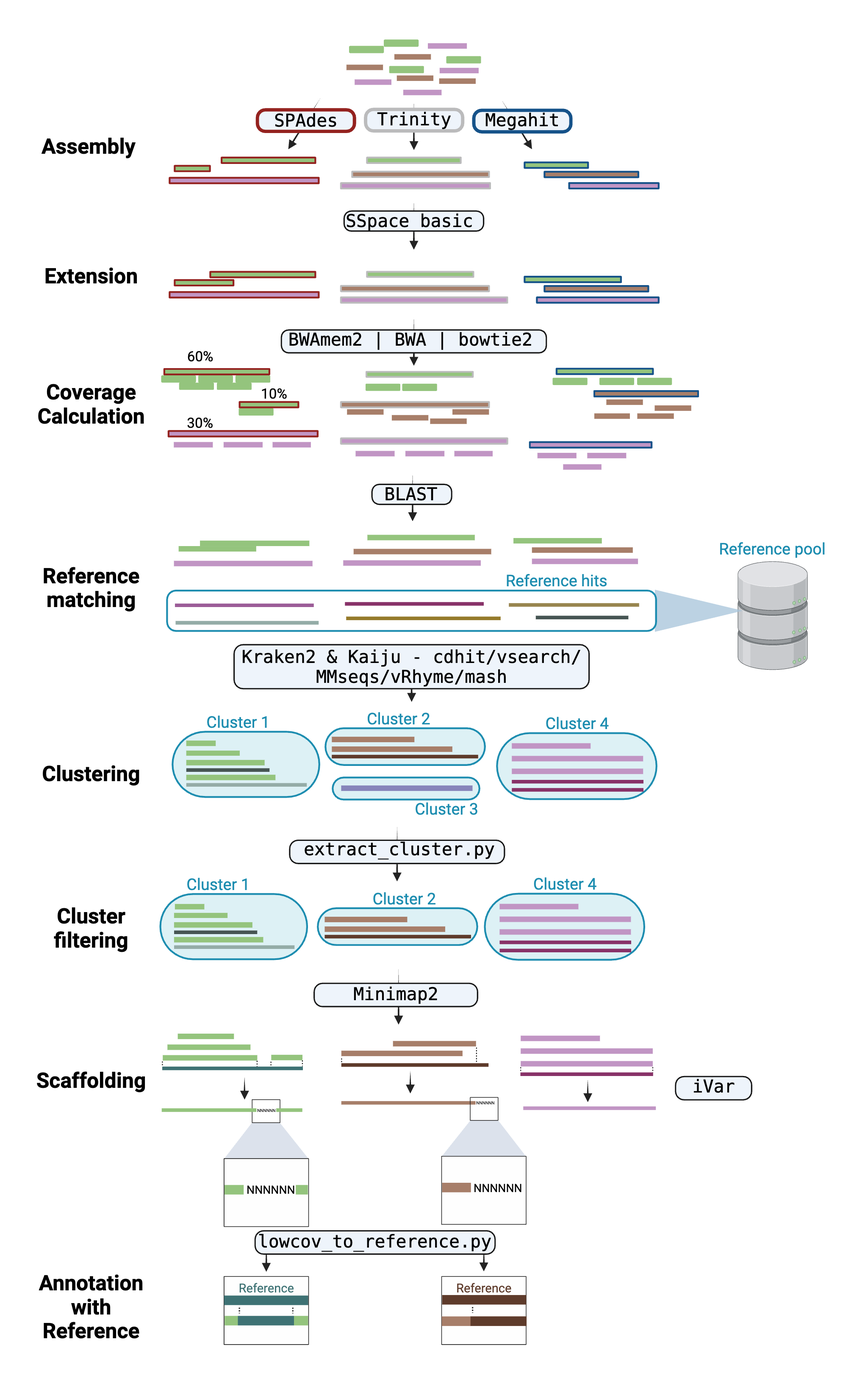
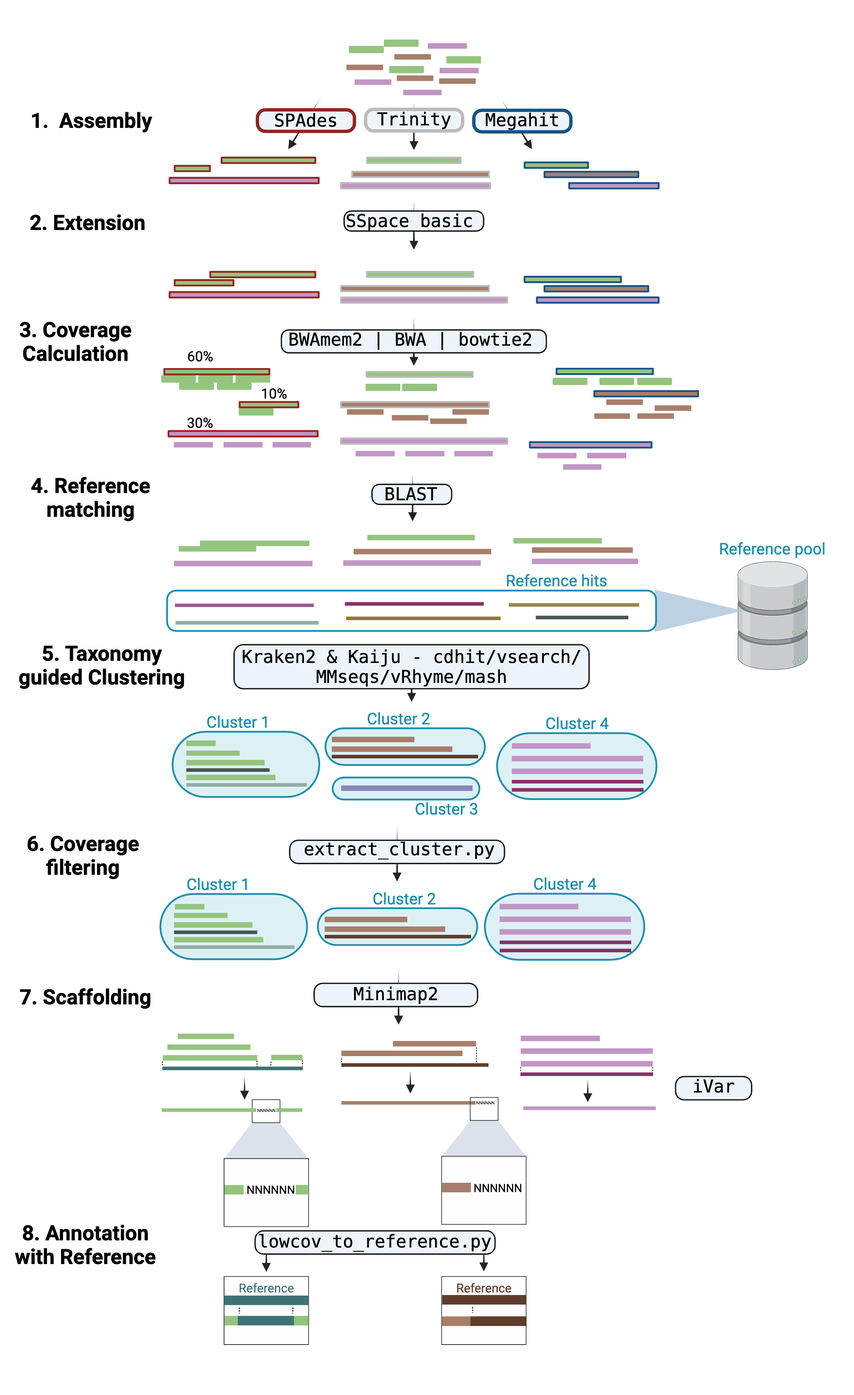
add numbers on assembly & polishing workflow

diff --git a/bin/custom_multiqc.py b/bin/custom_multiqc.py
@@ -121,14 +121,6 @@ def parse_args(argv=None):
         help="Checkv summary files for each sample",
         type=Path,
     )
-    parser.add_argument(
-        "--filter_level",
-        metavar="FILTER LEVEL",
-        choices=["normal", "strict", "none"],
-        default="normal",
-        type=str,
-        help="Specify how strict the filtering should be, default is normal.",
-    )
 
     parser.add_argument(
         "--clusters_files",

diff --git a/docs/parameters.md b/docs/parameters.md
@@ -8,7 +8,7 @@ Define where the pipeline should find input data and save output data.
 
 | Parameter | Description | Default |
 |-----------|-----------|-----------|
-| `input` | Path to comma-separated file containing information about the samples in the experiment. <details><summary>Help</summary><small>You will need to create a design file with information about the samples in your experiment before running the pipeline. Use this parameter to specify its location. It has to be a comma-separated file with 3 columns, and a header row. See [usage docs](https://nf-co.re/viralgenie/usage#samplesheet-input).</small></details>|  |
+| `input` | Path to comma-separated file containing information about the samples in the experiment. <details><summary>Help</summary><small>You will need to create a design file with information about the samples in your experiment before running the pipeline. Use this parameter to specify its location. It has to be a comma-separated file with 3 columns, and a header row. See [usage docs](https://joon-klaps.github.io/viralgenie/latest/usage/#input).</small></details>|  |
 | `outdir` | The output directory where the results will be saved. You have to use absolute paths to storage on Cloud infrastructure. |  |
 | `metadata` | Sample metadata that is included in the multiqc report |  |
 | `email` | Email address for completion summary. <details><summary>Help</summary><small>Set this parameter to your e-mail address to get a summary e-mail with details of the run sent to you when the workflow exits. If set in your user config file (`~/.nextflow/config`) then you don't need to specify this on the command line for every run.</small></details>|  |
@@ -25,7 +25,11 @@ Options related to the trimming, low complexity and host removal steps of the re
 | `save_intermediate_reads` | Save reads after every preprocessing step |  |
 | `with_umi` | With or without umi detection |  |
 | `skip_umi_extract` | With or without umi extraction | True |
-| `umi_discard_read` | Discard R1 / R2 if required | 0 |
+| `umi_deduplicate` | Specify at what level UMI deduplication should occur. | read |
+| `humid_mismatches` | Specify the maximum number of mismatches between reads for them to still be considered neighbors. | 1 |
+| `humid_strategy` | Specify the strategy for umi-deduplication directional vs cluster | directional |
+| `umitools_dedup_strategy` | Specify the strategy or method for umi-tools deduplication on mapping level | cluster |
+| `umi_discard_read` | Discard R1 / R2 if required 0, meaning not to discard | 0 |
 | `trim_tool` | The used trimming tool | fastp |
 | `skip_trimming` | Skip read trimming |  |
 | `fastp_deduplicate` | Use Fastp's deduplicate option |  |
@@ -35,28 +39,27 @@ Options related to the trimming, low complexity and host removal steps of the re
 | `save_merged` | Specify true to save all merged reads to the a file ending in `*.merged.fastq.gz` |  |
 | `min_trimmed_reads` | Inputs with fewer than this reads will be filtered out of the "reads" output channel | 1 |
 | `skip_complexity_filtering` | Skip filtering of low complexity regions in reads <details><summary>Help</summary><small>Low-complexity sequences are defined as having commonly found stretches of nucleotides with limited information content (e.g. the dinucleotide repeat CACACACACA). Such sequences can produce a large number of high-scoring but biologically insignificant results in database searches</small></details>| True |
+| `decomplexifier` | Specify the decomplexifier to use, bbduk or prinseq | prinseq |
 | `contaminants` | Reference files containing adapter and/or contaminant sequences for sequence kmer matching (used by bbduk) |  |
 | `skip_hostremoval` | Skip the removal of host read sequences |  |
 | `host_k2_db` | Kraken2 database used to remove host and conamination | s3://ngi-igenomes/test-data/viralrecon/kraken2_human.tar.gz |
 | `host_k2_library` | Kraken2 library(s) required to remove host and contamination <details><summary>Help</summary><small>Only used when no host kraken2 database is specified.</small></details>| human |
-| `skip_host_fastqc` | Skip the fastqc step after host & contaminants were removed | True |
+| `skip_host_fastqc` | Skip the fastqc step after host & contaminants were removed |  |
 
-## Read classification
+## Metagenomic diveristy
 
 Parameters used to determine the metagenomic diversity of the sample
 
 | Parameter | Description | Default |
 |-----------|-----------|-----------|
 | `skip_read_classification` | Skip determining the metagenomic diversity of the sample |  |
+| `read_classifiers` | Specify the taxonomic read classifiers, choices are 'kaiju,kraken2' | kraken2,kaiju |
 | `save_databases` | Save the used databases |  |
-| `skip_kraken2` | Skip the use of Kraken2 to determine metagenomic diversity |  |
 | `kraken2_db` | Location of the Kraken2 database | https://genome-idx.s3.amazonaws.com/kraken/k2_viral_20230314.tar.gz |
 | `kraken2_save_reads` | Save classified and unclassified reads  as fastq files |  |
 | `kraken2_save_readclassification` | Save summary overview of read classifications in a txt file |  |
 | `kraken2_save_minimizers` | Save kraken2's used minimizers |  |
-| `skip_bracken` | Skip recalculation of taxa abundance using bracken | True |
 | `bracken_db` | Location of bracken database | https://genome-idx.s3.amazonaws.com/kraken/k2_viral_20230314.tar.gz |
-| `skip_kaiju` | kip the use of Kaiju to determine metagenomic diversity |  |
 | `kaiju_db` | Location of Kaiju database | https://kaiju-idx.s3.eu-central-1.amazonaws.com/2023/kaiju_db_rvdb_2023-05-26.tgz |
 | `kaiju_taxon_rank` | Level of taxa rank that needs to be determined | species |
 
@@ -67,11 +70,16 @@ Parameters relating to the used assembly methods
 | Parameter | Description | Default |
 |-----------|-----------|-----------|
 | `skip_assembly` | Skip de novo assembly of reads |  |
-| `assemblers` | The specified tools for denovo assembly, multiple options are possible | spades,trinity,megahit |
+| `assemblers` | The specified tools for denovo assembly, multiple options are possible | spades,megahit |
 | `spades_mode` | specific SPAdes mode to run | rnaviral |
 | `spades_hmm` | File or directory with amino acid HMMs for Spades HMM-guided mode. |  |
 | `spades_yml` | Path to yml file containing read information. <details><summary>Help</summary><small>The raw FASTQ files listed in this YAML file MUST be supplied to the respective illumina/pacbio/nanopore input channel(s) _in addition_ to this YML. File entries in this yml must contain only the file name and no paths.</small></details>|  |
 | `assembler_patterns` | Regex pattern to identify contigs that have been made by the assemblers |  |
+| `skip_contig_prinseq` | Skip the filtering of low complexity contigs with prinseq |  |
+| `skip_sspace_basic` | Skip the contig extension with sspace_basic |  |
+| `read_distance` | Specify the mean distance between the paired reads | 350 |
+| `read_distance_sd` | Specify the a deviation of the mean distance that is allowed. <details><summary>Help</summary><small>For instance, a mean of 200 and a sd of 0.75. This means that any pair having a distance between 150 and 250 is allowed.</small></details>| 0.75 |
+| `read_orientation` | Specify the read orientation. | FR |
 
 ## Polishing
 
@@ -84,14 +92,23 @@ Parameters relating to the refinement of denovo contigs
 | `reference_pool` | Set of fasta sequences used as potential references for the contigs | https://rvdb.dbi.udel.edu/download/C-RVDBvCurrent.fasta.gz |
 | `skip_precluster` | Skip the preclustering of assemblies to facilitate downstream processing of assemblies |  |
 | `keep_unclassified` | Keep the contigs that could not be classified with the taxonomic databases (`kaiju_db` & `kraken2_db`) <details><summary>Help</summary><small>Within the preclustering step, all contigs will get a taxonomic classification using the provided databases for the metagenomic tools. In some cases, the number of unclassified contigs, can be very large if the database is restrictive. This will result in large clusters in downstream processing that can take up a lot of resources despite not being a priority in some analyses. So set it to `True` if you want to keep unclassified contigs and set it to `False` if you don't want to keep them. </small></details>| True |
+| `precluster_classifiers` | Specify the metagenomic classifiers to use for contig taxonomy classification: 'kraken2,kaiju' | kraken2,kaiju |
 | `precluster_merge_strategy` | Taxon conflict resolution mode, must be 1 (Kaiju), 2 (Kraken),  lca, or lowest. <details><summary>Help</summary><small>The option -c determines the method of resolving conflicts in the taxonomic assignment for a read.<br>Possible values are '1', '2', 'lca', 'lowest':<br>  '1' -> the taxon id from Kaiju is used.<br>  '2' -> the taxon id from Kraken is used.<br>  'lca' -> the least common ancestor of the two taxon ids from both input files is used.<br>  'lowest' -> the lower rank of the two taxa is used if they are within the same lineage. Otherwise the LCA is used.</small></details>| lca |
-| `cluster_method` | Cluster algorithm used for contigs | mash |
+| `precluster_simplification_level` | Level of taxonomic simplification <details><summary>Help</summary><small>The taxonomic classification of the contigs can be simplified to a certain level. This can be done by specifying the taxonomic rank to which the classification should be simplified.</small></details>|  |
+| `precluster_exclude_taxa` | Hard constrain for taxa to exclude from the preclustering, if multiple given make sure to enclose with '"' and separate with a space. <details><summary>Help</summary><small>The taxonomic classification of the contigs can be filtered. This can be done by specifying a list of taxa that should be excluded from the results.</small></details>|  |
+| `precluster_exclude_children` | Taxon ids to exclude along with all their children from the preclustering, if multiple given make sure to enclose with '"' and separate with a space. <details><summary>Help</summary><small>The taxonomic classification of the contigs can be filtered. This can be done by specifying a list of taxa that should be excluded along with all their children from the results.</small></details>|  |
+| `precluster_exclude_parents` | Taxon ids to exclude along with all their parents from the preclustering, if multiple given make sure to enclose with '"' and separate with a space. <details><summary>Help</summary><small>The taxonomic classification of the contigs can be filtered. This can be done by specifying a list of taxa that should be excluded along with all their parents from the results.</small></details>|  |
+| `precluster_include_children` | Taxon ids to include along with all their children from the preclustering, if multiple given make sure to enclose with '"' and separate with a space. <details><summary>Help</summary><small>The taxonomic classification of the contigs can be filtered. This can be done by specifying a list of taxa that should be included along with all their children from the results.</small></details>|  |
+| `precluster_include_parents` | Taxon ids to include along with all their parents from the preclustering, if multiple given make sure to enclose with '"' and separate with a space. <details><summary>Help</summary><small>The taxonomic classification of the contigs can be filtered. This can be done by specifying a list of taxa that should be included along with all their parents from the results.</small></details>|  |
+| `cluster_method` | Cluster algorithm used for contigs | cdhitest |
+| `mmseqs_cluster_mode` | Specify the algorithm to partition the network graph from mmseqs <details><summary>Help</summary><small>The Greedy Set cover (0) algorithm is an approximation for the NP-complete optimization problem called set cover.<br>Connected component (1) uses transitive connection to cover more remote homologs.<br>Greedy incremental (2) works analogous to CD-HIT clustering algorithm.</small></details>| 0 |
 | `network_clustering` | (only with mash) Algorithm to partition the network. <details><summary>Help</summary><small>Mash creates a distance matrix that gets translated into a network of connectected nodes where the edges represent the similarity. This network is then split up using the specified method.<br><br> - [leiden](https://leidenalg.readthedocs.io/en/stable/intro.html) algorithm: a hierarchical clustering algorithm, that recursively merges communities into single nodes by greedily optimizing the modularity<br> - [connected_components] algorithm: a clustering algorithm that defines the largest possible communities where each node within a subset is reachable from every other node in the same subset via any edge .<br></small></details>| connected_components |
 | `skip_hybrid_consensus` | Skip creation of the hybrid consensus, instead keep the scaffold with ambiguous bases if the depth of scaffolds is not high enough. |  |
-| `identity_threshold` | Identity threshold value used in clustering algorithms | 0.6 |
+| `identity_threshold` | Identity threshold value used in clustering algorithms | 0.85 |
 | `min_contig_size` | Minimum allowed contig size <details><summary>Help</summary><small>Setting this to a low value will result in a large number of questionable contigs and an increase in computation time </small></details>| 500 |
+| `perc_reads_contig` | minimum cumulated sum of mapped read percentages of each member from a cluster group, set to 0 to disable <details><summary>Help</summary><small>Setting this variable will remove clusters that have a low cumulated sum of mapped read percentages. This can be used to remove clusters that have a low coverage and are likely to be false positives.</small></details>| 5 |
 | `max_contig_size` | Maximum allowed contig size | 10000000 |
-| `max_n_perc` |  | 50 |
+| `max_n_perc` | Define the maximum percentage of ambiguous bases in a contig | 50 |
 | `skip_singleton_filtering` | Skip the filtering of contigs that did not cluster together with other contigs <details><summary>Help</summary><small>Setting this to true will cause the pipeline not to remove contigs that don't have similar contigs. Filtering settings can be further specified with `min_contig_size` and `max_n_100kbp`.</small></details>|  |
 
 ## Iterative consensus refinement
@@ -104,7 +121,6 @@ Define parameters for iterations to update denovo consensus using  reference bas
 | `iterative_refinement_cycles` | number of iterations | 2 |
 | `intermediate_mapper` | mapping tool used during iterations | bwamem2 |
 | `intermediate_variant_caller` | variant caller used during iterations | ivar |
-| `consensus_caller` | consensus tool used for calling new consensus in final iteration | ivar |
 | `call_intermediate_variants` | call variants during the iterations <details><summary>Help</summary><small>Will always be done when iterative consensus caller is bcftools</small></details>|  |
 | `intermediate_consensus_caller` | consensus tool used for calling new consensus during iterations | bcftools |
 | `intermediate_mapping_stats` | calculate summary statistics during iterations | True |
@@ -119,8 +135,12 @@ Parameters relating to the analysis of variants associated to contigs and scaffo
 | `mapper` | Define which mapping tool needs to be used when mapping reads to reference | bwamem2 |
 | `mapping_constrains` | Sequence to use as a mapping reference instead of the de novo contigs or scaffolds |  |
 | `deduplicate` | deduplicate the reads <details><summary>Help</summary><small>If used with umi's, `umi tools` will be used to group and call consensus of each indiual read group. If not used with umi's use `PicardsMarkDuplicates`. </small></details>| True |
-| `variant_caller` |  | ivar |
-| `min_mapped_reads` |  | 200 |
+| `variant_caller` | Define the variant caller to use: 'ivar' or 'bcftools' | ivar |
+| `consensus_caller` | consensus tool used for calling new consensus in final iteration | ivar |
+| `umi_separator` | UMI seperator in fastq header. <details><summary>Help</summary><small>If you have used an alternative method which does not separate the read id and UMI with a “_”, such as bcl2fastq which uses “:”, you can specify the separator with the option --umi_separator=<sep>, replacing <sep> with e.g “:”.</small></details>| : |
+| `mash_sketch_size` | Specify the sketch size, the number of (non-redundant) min-hashes that are kept. <details><summary>Help</summary><small>Larger sketches will better represent the sequence, but at the cost of larger sketch files and longer comparison times.</small></details>| 4000 |
+| `mash_sketch_kmer_size` | Specify the kmer size for mash to create their hashes <details><summary>Help</summary><small>larger k-mers will provide more specificity, while smaller k-mers will provide more sensitivity. Larger genomes will also require larger k-mers to avoid k-mers that are shared by chance</small></details>| 15 |
+| `min_mapped_reads` | Define the minimum number of mapped reads in order to continue the variant and consensus calling | 200 |
 | `mapping_stats` | calculate summary statistics in final iteration | True |
 | `ivar_header` |  |  |
 
@@ -134,11 +154,11 @@ Apply different quality control techniques on the generated consensus genomes
 | `skip_checkv` | Skip the use of checkv for quality check |  |
 | `checkv_db` | Reference database used by checkv for consensus quality control <details><summary>Help</summary><small>If not given, the most recent one is downloaded.</small></details>|  |
 | `skip_annotation` | Skip the annotation of the consensus constructs |  |
-| `annotation_db` | Database used for annotation of the cosensus constructs <details><summary>Help</summary><small>The metada fields are stored in the fasta comment as `key1:"value1"|key2:"value2"|...` see docs/databases.md for more information.</small></details>| https://viralzone.expasy.org/resources/Virosaurus/2020%5F4/virosaurus90%5Fvertebrate-20200330.fas.gz |
+| `annotation_db` | Database used for annotation of the cosensus constructs <details><summary>Help</summary><small>The metada fields are stored in the fasta comment as `key1:"value1"|key2:"value2"|...` see docs/databases.md for more information.</small></details>| ftp://ftp.expasy.org/databases/viralzone/2020_4/virosaurus90_vertebrate-20200330.fas.gz |
 | `skip_quast` | Skip the use of QUAST for quality check |  |
 | `skip_blast_qc` | Skip the blast search of contigs to the provided reference DB |  |
 | `skip_alignment_qc` | Skip creating an alignment of each the collapsed clusters and each iterative step |  |
-| `mmseqs_searchtype` | Specify the search algorithm to use for mmseqs. 0: auto 1: amino acid, 2: translated, 3: nucleotide, 4: translated nucleotide alignment <details><summary>Help</summary><small>Only search-type 3 supports both forward and reverse search<br>1 - BLASTP;<br>2 - TBLASTN;<br>3 - BLASTN;<br>4 - TBLASTX</small></details>| 3 |
+| `mmseqs_searchtype` | Specify the search algorithm to use for mmseqs. 0: auto 1: amino acid, 2: translated, 3: nucleotide, 4: translated nucleotide alignment <details><summary>Help</summary><small>Only search-type 3 supports both forward and reverse search<br>1 - BLASTP;<br>2 - TBLASTN;<br>3 - BLASTN;<br>4 - TBLASTX</small></details>| 4 |
 
 ## Institutional config options
 
@@ -153,23 +173,12 @@ Parameters used to describe centralised config profiles. These should not be edi
 | `config_profile_contact` | Institutional config contact information. |  |
 | `config_profile_url` | Institutional config URL link. |  |
 
-## Max job request options
-
-Set the top limit for requested resources for any single job.
-
-| Parameter | Description | Default |
-|-----------|-----------|-----------|
-| `max_cpus` | Maximum number of CPUs that can be requested for any single job. <details><summary>Help</summary><small>Use to set an upper-limit for the CPU requirement for each process. Should be an integer e.g. `--max_cpus 1`</small></details>| 16 |
-| `max_memory` | Maximum amount of memory that can be requested for any single job. <details><summary>Help</summary><small>Use to set an upper-limit for the memory requirement for each process. Should be a string in the format integer-unit e.g. `--max_memory '8.GB'`</small></details>| 128.GB |
-| `max_time` | Maximum amount of time that can be requested for any single job. <details><summary>Help</summary><small>Use to set an upper-limit for the time requirement for each process. Should be a string in the format integer-unit e.g. `--max_time '2.h'`</small></details>| 240.h |
-
 ## Generic options
 
 Less common options for the pipeline, typically set in a config file.
 
 | Parameter | Description | Default |
 |-----------|-----------|-----------|
-| `help` | Display help text. |  |
 | `version` | Display version and exit. |  |
 | `publish_dir_mode` | Method used to save pipeline results to output directory. <details><summary>Help</summary><small>The Nextflow `publishDir` option specifies which intermediate files should be saved to the output directory. This option tells the pipeline what method should be used to move these files. See [Nextflow docs](https://www.nextflow.io/docs/latest/process.html#publishdir) for details.</small></details>| copy |
 | `email_on_fail` | Email address for completion summary, only when pipeline fails. <details><summary>Help</summary><small>An email address to send a summary email to when the pipeline is completed - ONLY sent if the pipeline does not exit successfully.</small></details>|  |
@@ -179,14 +188,11 @@ Less common options for the pipeline, typically set in a config file.
 | `hook_url` | Incoming hook URL for messaging service <details><summary>Help</summary><small>Incoming hook URL for messaging service. Currently, MS Teams and Slack are supported.</small></details>|  |
 | `multiqc_title` | MultiQC report title. Printed as page header, used for filename if not otherwise specified. |  |
 | `multiqc_config` | Custom config file to supply to MultiQC. |  |
-| `multiqc_logo` | Custom logo file to supply to MultiQC. File name must also be set in the MultiQC config file |  |
+| `multiqc_logo` | Custom logo file to supply to MultiQC. File name must also be set in the MultiQC config file | https://github.com/Joon-Klaps/viralgenie/blob/dev/docs/images/ViralGenie-nf-core-theme.png?raw=true |
 | `multiqc_methods_description` | Custom MultiQC yaml file containing HTML including a methods description. |  |
 | `clean_output_on_error` | Delete the output directory if the pipeline fails |  |
 | `custom_table_headers` | Custom yaml file contian g the table column names selection and new names. | ${projectDir}/assets/custom_table_headers.yml |
 | `validate_params` | Boolean whether to validate parameters against the schema at runtime | True |
-| `validationShowHiddenParams` | Show all params when using `--help` <details><summary>Help</summary><small>By default, parameters set as _hidden_ in the schema are not shown on the command line when a user runs with `--help`. Specifying this option will tell the pipeline to show all parameters.</small></details>|  |
-| `validationFailUnrecognisedParams` | Validation of parameters fails when an unrecognised parameter is found. <details><summary>Help</summary><small>By default, when an unrecognised parameter is found, it returns a warinig.</small></details>|  |
-| `validationSchemaIgnoreParams` |  | global_prefix |
-| `validationLenientMode` | Validation of parameters in lenient more. <details><summary>Help</summary><small>Allows string values that are parseable as numbers or booleans. For further information see [JSONSchema docs](https://github.com/everit-org/json-schema#lenient-mode).</small></details>|  |
 | `prefix` | Prefix of all output files followed by [date]_[pipelineversion]_[runName] <details><summary>Help</summary><small>Use '--global_prefix' to not have metadata embedded.</small></details>|  |
 | `global_prefix` | Global prefix set if you don't want metadata embedded in the prefix |  |
+| `pipelines_testdata_base_path` | Base URL or local path to location of pipeline test dataset files | https://raw.githubusercontent.com/nf-core/test-datasets/ |

diff --git a/docs/workflow/assembly_polishing.md b/docs/workflow/assembly_polishing.md
@@ -3,11 +3,15 @@
 
 Viralgenie offers an elaborate workflow for the assembly and polishing of viral genomes:
 
-- [Assembly](#de-novo-assembly): combining the results of multiple assemblers.
-- [Reference Matching](#reference-matching): comparing the newly assembled contigs to a reference sequence pool.
-- [Clustering](#clustering): clustering the contigs based on taxonomy and similarity.
-- [Scaffolding](#scaffolding): scaffolding the contigs to the centroid of each bin.
-- [Annotation with Reference](#annotation-with-reference): annotating regions with 0-depth coverage with the reference sequence.
+1. [Assembly](#1-de-novo-assembly): combining the results of multiple assemblers.
+1. [Extension](#2-extension): extending contigs using paired-end reads.
+1. [Coverage calculation](#3-coverage-calculation): mapping reads back to the contigs to determine coverage.
+1. [Reference Matching](#4-reference-matching): comparing contigs to a reference sequence pool.
+1. [Taxonomy guided Clustering](#5-taxonomy-guided-clustering): clustering contigs based on taxonomy and nucleotide similarity.
+    - [Pre-clustering](#51-pre-clustering-using-taxonomy): separating contigs based on identified taxonomy-id.
+    - [Actual clustering](#52-actual-clustering-on-nucloetide-similarity): clustering contigs based on nucleotide similarity.
+1. [Scaffolding](#scaffolding): scaffolding the contigs to the centroid of each bin.
+1. [Annotation with Reference](#annotation-with-reference): annotating regions with 0-depth coverage with the reference sequence.
 
 ![assembly_polishing](../images/assembly_polishing.png)
 
@@ -17,28 +21,48 @@ Viralgenie offers an elaborate workflow for the assembly and polishing of viral 
 
 The consensus genome of all clusters are then send to the [variant analysis & iterative refinement](variant_and_refinement.md) step.
 
-## De-novo Assembly
+## 1. De-novo Assembly
+
 Three assemblers are used, [SPAdes](http://cab.spbu.ru/software/spades/), [Megahit](https://github.com/voutcn/megahit), and [Trinity](https://github.com/trinityrnaseq/trinityrnaseq). The resulting contigs of all specified assemblers, are combined and processed further together.
 > Modify the spades mode with `--spades_mode [default: rnaviral]` and supply specific params with `--spades_yml` or a hmm model with `--spades_hmm`.
 
 > Specify the assemblers to use with the `--assemblers` parameter where the assemblers are separated with a ','. The default is `spades,megahit,trinity`.
 
-Contigs can be extended using [SSPACE Basic](https://github.com/nsoranzo/sspace_basic) with the `--skip_sspace_basic false` parameter. SSPACE is a tool for scaffolding contigs using paired-end reads. It is modified from SSAKE assembler and has the feature of extending contigs using reads that are unmappable in the contig assembly step.
-
 Low complexity contigs can be filtered out using prinseq++ with the `--skip_contig_prinseq false` parameter. Complexity filtering is primarily a run-time optimisation step. Low-complexity sequences are defined as having commonly found stretches of nucleotides with limited information content (e.g. the dinucleotide repeat CACACACACA). Such sequences can produce a large number of high-scoring but biologically insignificant results in database searches. Removing these reads therefore saves computational time and resources.
 
-## Reference Matching
+## 2. Extension
+
+Contigs can be extended using [SSPACE Basic](https://github.com/nsoranzo/sspace_basic) with the `--skip_sspace_basic false` parameter. SSPACE is a tool for scaffolding contigs using paired-end reads. It is modified from SSAKE assembler and has the feature of extending contigs using reads that are unmappable in the contig assembly step. To maximize its efficiency, consider specifying the arguments `--read_distance`, `--read_distance_sd`, and `--read_orientation`.  For more information on these arguments, see the [parameters assembly section](../parameters.md#assembly).
+
+> The extension of contigs is ran by default, to skip this step, use `--skip_sspace_basic`.
+
+## 3. Coverage calculation
+
+Processed reads are mapped back against the contigs to determine the number of reads mapping towards each contig. This is done with [`BowTie2`](http://bowtie-bio.sourceforge.net/bowtie2/),[`BWAmem2`](https://github.com/bwa-mem2/bwa-mem2) or [`BWA`](https://github.com/lh3/bwa). This step is used to remove contig clusters that have little to no coverage downstream.
+
+> Specify the mapper to use with the `--mapper` parameter. The default is [`BWAmem2`](https://github.com/bwa-mem2/bwa-mem2). To skip contig filtering specify `--perc_reads_contig 0`.
+
+## 4. Reference Matching
+
 The newly assembled contigs are compared to a reference sequence pool (--reference_pool) using a [BLASTn search](https://www.ncbi.nlm.nih.gov/books/NBK153387/). This process not only helps annotate the contigs but also assists in linking together sets of contigs that are distant within a single genome. Essentially, it aids in identifying contigs belonging to the same genomic segment and choosing the right reference for scaffolding purposes.
 
 The top 5 hits for each contig are combined with the denovo contigs and send to the clustering step.
 
 > The reference pool can be specified with the `--reference_pool` parameter. The default is the latest clustered [Reference Viral DataBase (RVDB)](https://rvdb.dbi.udel.edu/).
 
-## Clustering
+## 5. Taxonomy guided Clustering
 
-The clustering workflow of contigs consists out of 2 steps, the [pre-clustering](#pre-clustering) and [actual clustering](#actual-clustering). Here contigs are first separated based on identified taxonomy-id ([Kraken2](https://ccb.jhu.edu/software/kraken2/), [Kaiju](https://kaiju.binf.ku.dk/)) and are subsequently clustered further to identify genome segments.
+The clustering workflow of contigs consists out of 2 steps, the [pre-clustering using taxonomy](#51-pre-clustering-using-taxonomy) and
+[actual clustering on nucleotide similarity](#52-actual-clustering-on-nucloetide-similarity). The taxonomy guided clustering is used to separate contigs based on taxonomy and nucleotide similarity.
 
-### Pre-clustering
+```mermaid
+graph LR;
+    A[Contigs] --> B["`**Pre-clustering**`"];
+    B --> C["`**Actual clustering**`"];
+```
+
+
+### 5.1 Pre-clustering using taxonomy
 
 The contigs along with their references have their taxonomy assigned using [Kraken2](https://ccb.jhu.edu/software/kraken2/) and [Kaiju](https://kaiju.binf.ku.dk/).
 
@@ -58,7 +82,7 @@ graph LR;
     E --> F["Taxon simplification"];
 ```
 
-!!! Tip annotate "Having very complex metagenomes"
+!!! Tip annotate "Having complex metagenomic samples?"
     The pre-clustering step can be used to simplify the taxonomy of the contigs, let [NCBI's taxonomy browser](https://www.ncbi.nlm.nih.gov/Taxonomy/Browser/wwwtax.cgi) help you identify taxon-id's for simplification. The simplification can be done in several ways:
 
     - Make sure your contamination database is up to date and removes the relevant taxa.
@@ -80,6 +104,7 @@ graph LR;
         B --- E[species2];
         C -.- F[species3];
     ```
+    Dotted lines represent exclusion of taxa.
 
 3. `--precluster_include_parents` __"species3"__ :
 
@@ -91,10 +116,11 @@ graph LR;
         B -.- E[species2]
         C --- F[species3]
     ```
+    Dotted lines represent exclusion of taxa.
 
 > The pre-clustering step will be run by default but can be skipped with the argument `--skip_preclustering`. Specify which classifier to use with `--precluster_classifiers` parameter. The default is `kaiju,kraken2`. Contig taxon filtering is still enabled despite not having to solve for inconsistencies if only Kaiju or Kraken2 is ran.
 
-### Actual clustering
+### 5.2 Actual clustering on nucloetide similarity
 
 The clustering is performed with one of the following tools:
 
@@ -111,18 +137,33 @@ These methods all come with their own advantages and disadvantages. For example,
 !!! Tip
     When pre-clustering is performed, it is recommended to set a lower identity_threshold (60-70% ANI) as the new goal becomes to separate genome segments within the same bin.
 
-> The clustering method can be specified with the `--clustering_method` parameter. The default is `mash`.
+> The clustering method can be specified with the `--clustering_method` parameter. The default is `cdhitest`.
 
 > The network clustering method for `mash` can be specified with the `--network_clustering` parameter. The default is `connected_components`, alternative is [`leiden`](https://www.nature.com/articles/s41598-019-41695-z).
 
-> The similarity threshold can be specified with the `--similarity_threshold` parameter. The default is `0.6`. However, for cdhit the default is `0.8` which is its minimum value.
-
-## Scaffolding
-
-After classifying all contigs and their top BLAST hits into distinct clusters or bins, the contigs are then scaffolded to the centroid of each bin. Any external references that are not centroids of the cluster are subsequently removed to prevent further bias. All members of the cluster are consequently mapped towards their centroid with [Minimap2](https://github.com/lh3/minimap2) and conensus is called using [iVar-consensus](https://andersen-lab.github.io/ivar/html/manualpage.html).
+> The similarity threshold can be specified with the `--similarity_threshold` parameter. The default is `0.85`.
 
 
-## Annotation with Reference
+## 6. Coverage filtering
+
+The coverage of the contigs is calculated using the same method as in the [coverage calculation step](#3-coverage-calculation). A cumulative sum is taken across the contigs from every assembler. If these cumulative sums is above the specified `--perc_reads_contig` parameter, the contig is kept. If all cumulative sums is below the specified parameter, the contig is removed.
+
+!!! Info annotate "Show me an example how it works"
+    If the `--perc_reads_contig` is set to `5`, the cumulative sum of the contigs from every assembler is calculated. For example:
+
+    -  Cluster 1: the cumulative sum of the contigs from SPAdes is 0.6, Megahit is 0.5, the cluster is kept.
+    - Cluster 2: the cumulative sum of the contigs from SPAdes is 0.1, Megahit is 0.1, the cluster is removed.
+    - Cluster 3: the cumulative sum of the contigs from SPAdes is 0.5, Megahit is 0, the cluster is kept.
+
+> The default is `5` and can be specified with the `--perc_reads_contig` parameter.
+
+
+## 7. Scaffolding
+
+After classifying all contigs and their top BLAST hits into distinct clusters or bins, the contigs are then scaffolded to the centroid of each bin. Any external references that are not centroids of the cluster are subsequently removed to prevent further bias. All members of the cluster are consequently mapped towards their centroid with [Minimap2](https://github.com/lh3/minimap2) and consensus is called using [iVar-consensus](https://andersen-lab.github.io/ivar/html/manualpage.html).
+
+
+## 8. Annotation with Reference
 
 Regions with 0-depth coverage are annotated with the reference sequence. This is done with a [custom script](https://github.com/Joon-Klaps/viralgenie/blob/dev/bin/lowcov_to_reference.py) that uses the coverage of the denovo contigs towards the reference sequence to identify regions with 0-depth coverage. The reference sequence is then annotated to these regions.
 

diff --git a/docs/template/parameter_tip.md b/docs/template/parameter_tip.md
@@ -1,5 +1,5 @@
 !!! Tip "Need Something more interactive?"
     Use [`nf-core launch`](https://nf-co.re/tools#launch-a-pipeline) to interactivly set your parameters:
     ```console
-    nf-core launch Joon-Klaps/viralgenie
+    nf-core pipelines launch Joon-Klaps/viralgenie
     ```
